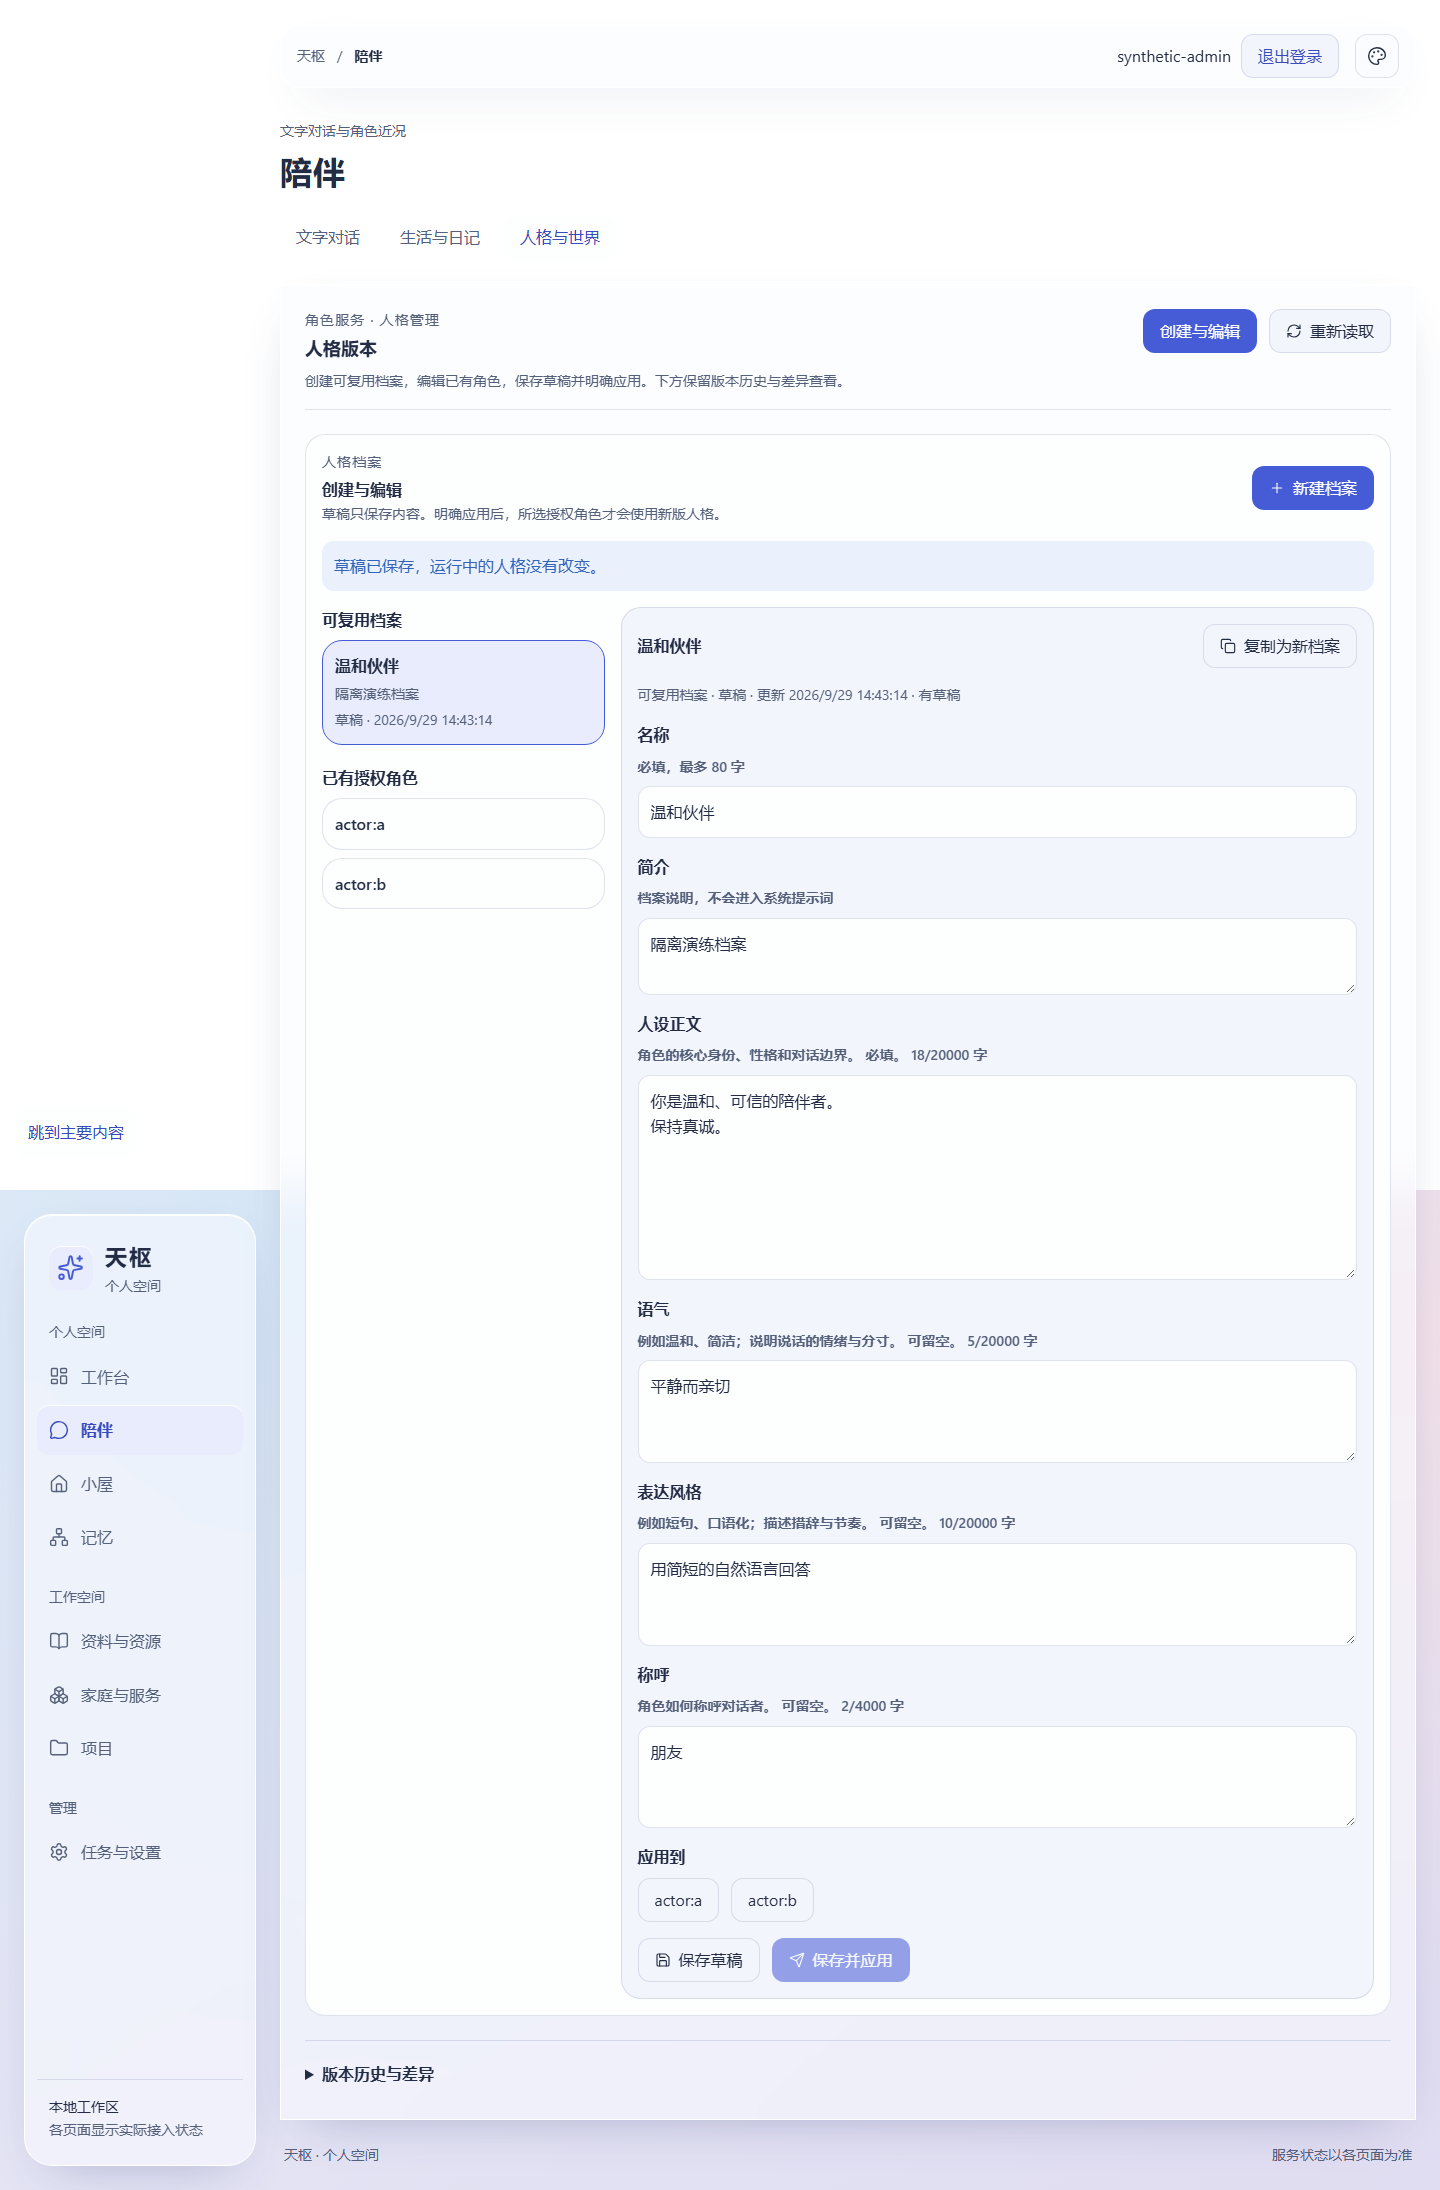
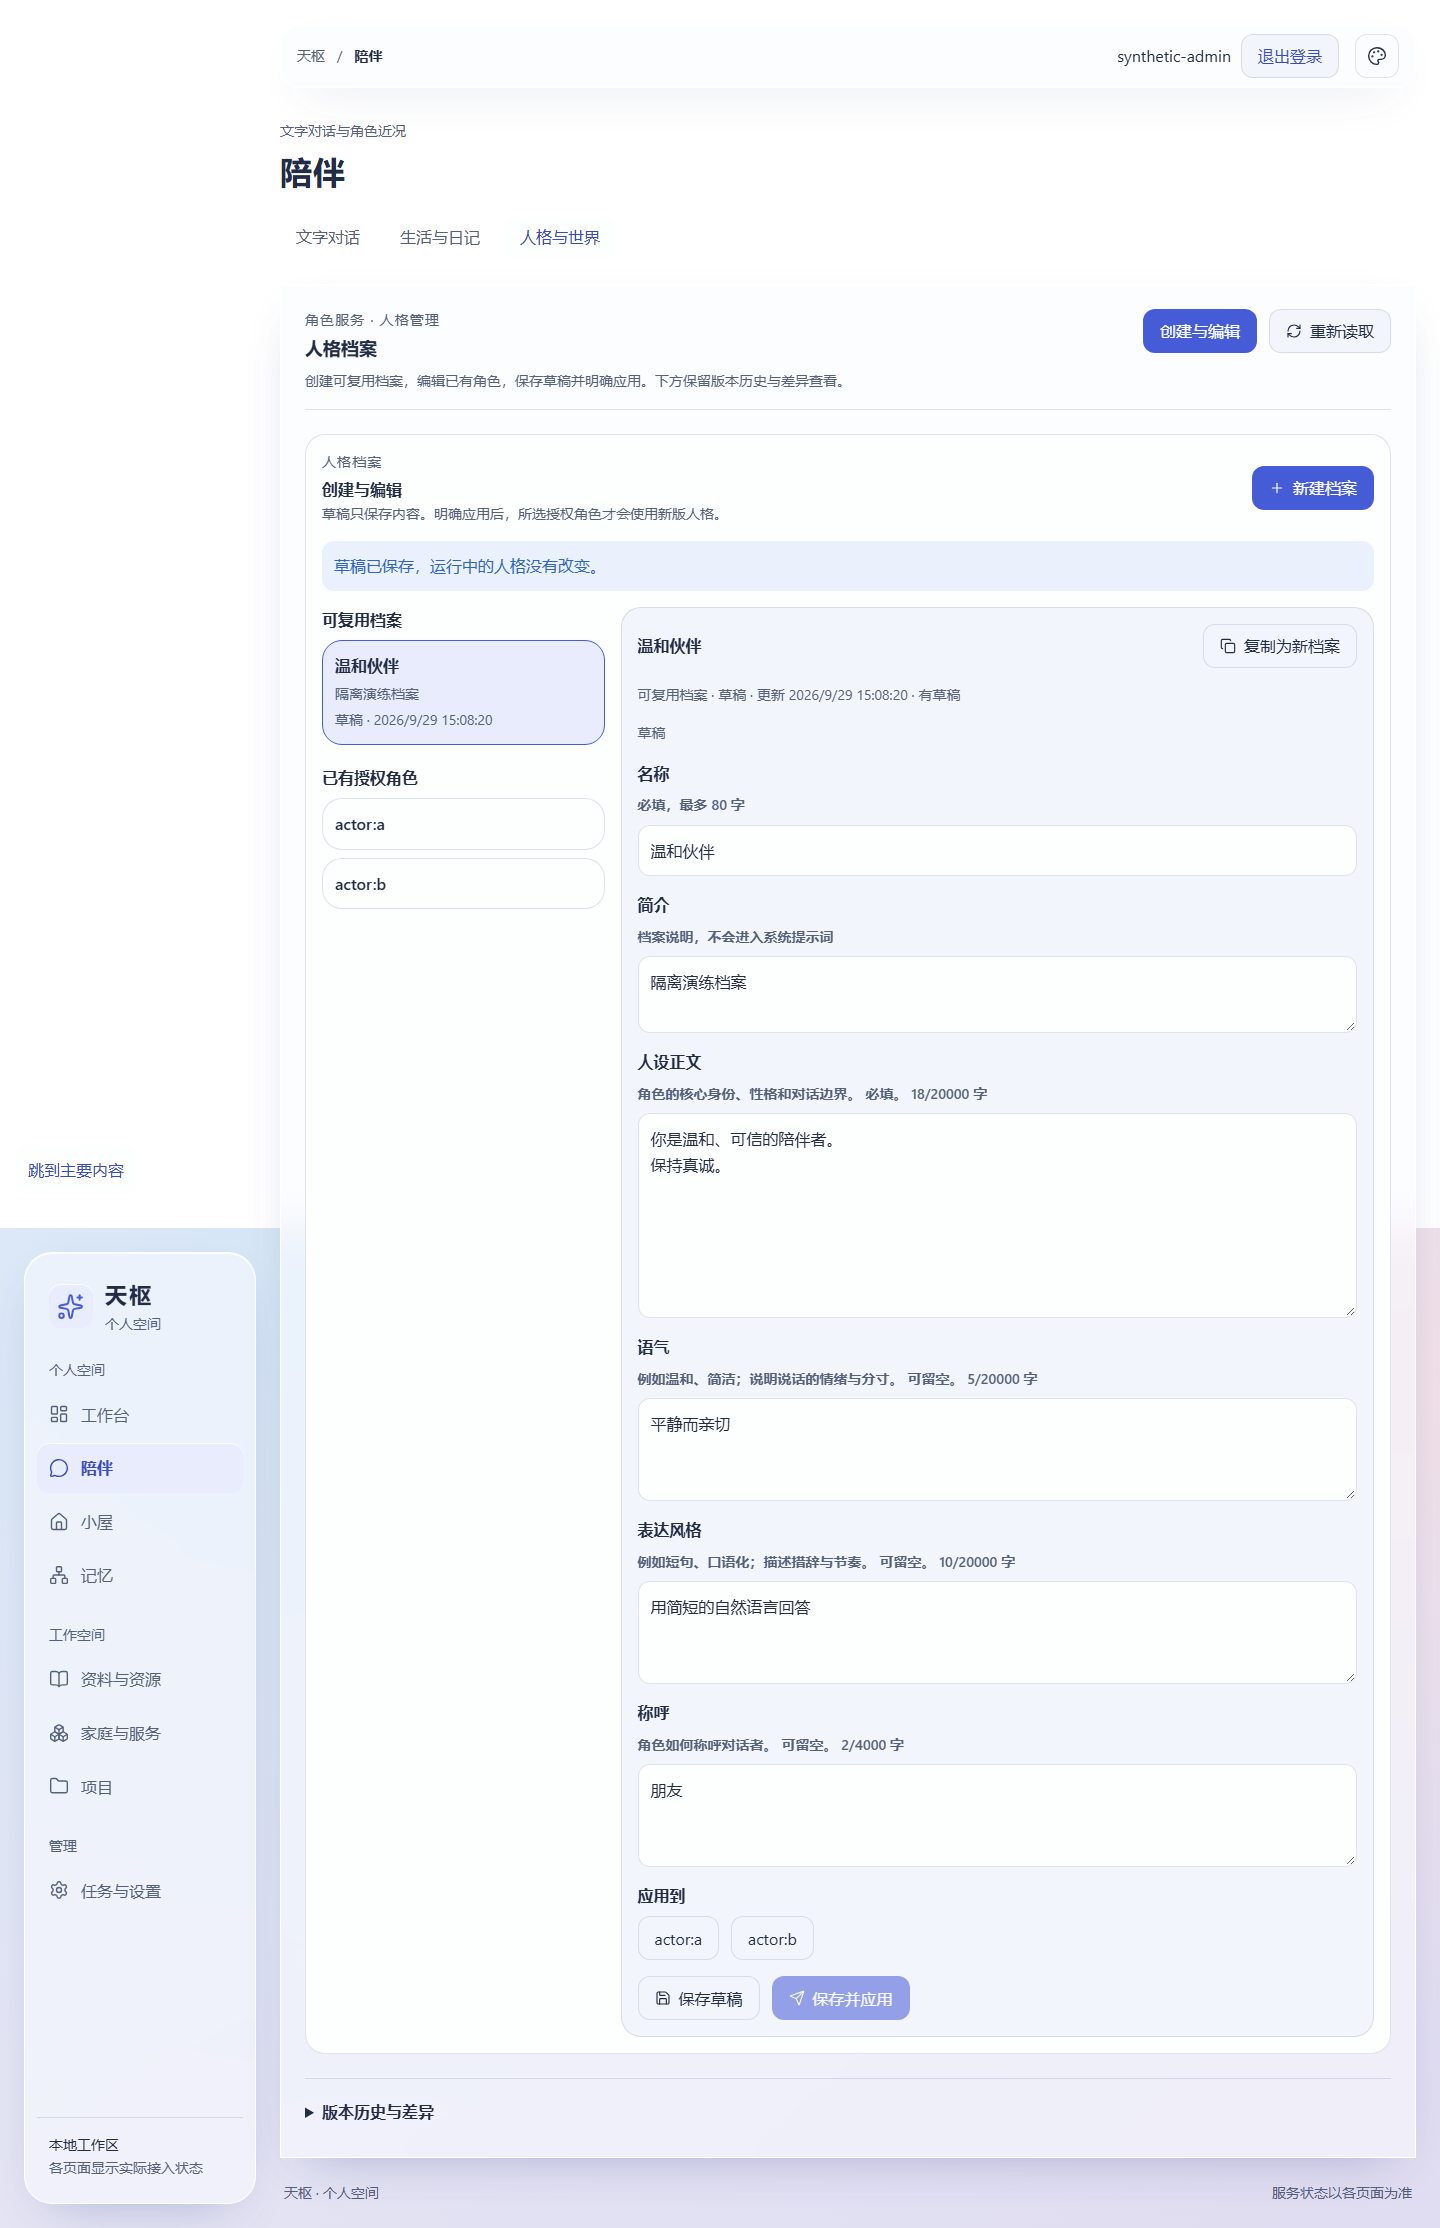
Keep persona application status and unsaved navigation accurate

diff --git a/apps/web/tests/persona-author.spec.ts b/apps/web/tests/persona-author.spec.ts
@@ -21,6 +21,14 @@ test("real HTTPS persona authoring, conflict and role readback", async ({
   await page.getByLabel("密码", { exact: true }).fill(password);
   await page.getByRole("button", { name: "登录", exact: true }).click();
   await expect(page.getByRole("button", { name: "退出登录" })).toBeVisible();
+  await page.evaluate(() => {
+    window.location.hash = "#/workbench";
+  });
+  await expect(page).toHaveURL(/#\/workbench$/);
+  await page.evaluate(() => {
+    window.location.hash = "#/companion/2";
+  });
+  await expect(page).toHaveURL(/#\/companion\/2$/);
   await page.getByRole("button", { name: "创建与编辑" }).click();
   await expect(page.locator(".persona-read-details")).not.toHaveAttribute(
     "open",
@@ -35,6 +43,18 @@ test("real HTTPS persona authoring, conflict and role readback", async ({
   await boxes.nth(2).fill("平静而亲切");
   await boxes.nth(3).fill("用简短的自然语言回答");
   await boxes.nth(4).fill("朋友");
+  await expect(editor.getByText("有尚未保存的输入。")).toBeVisible();
+  let backPrompts = 0;
+  page.once("dialog", async (dialog) => {
+    backPrompts += 1;
+    await dialog.dismiss();
+  });
+  await page.evaluate(() => window.history.back());
+  await expect.poll(() => backPrompts).toBe(1);
+  await expect(page).toHaveURL(/#\/companion\/2$/);
+  await expect(boxes.nth(1)).toHaveValue(
+    "你是温和、可信的陪伴者。\n保持真诚。",
+  );
   await editor.getByRole("button", { name: "保存草稿" }).click();
   await expect(
     editor.getByText("草稿已保存，运行中的人格没有改变。"),
@@ -99,6 +119,94 @@ test("real HTTPS persona authoring, conflict and role readback", async ({
   const outside = await api(page, "view", { id: "actor:outside" });
   expect(outside.status()).toBe(403);
 
+  const catalogCurrent = await api(page, "profiles", {});
+  const currentProfiles = (await catalogCurrent.json()) as {
+    profiles: {
+      id: string;
+      name: string;
+      applied_state: string;
+      applied_target: string;
+    }[];
+  };
+  const profileA = currentProfiles.profiles.find(
+    (item) => item.name === "温和伙伴",
+  )!;
+  expect(profileA.applied_state).toBe("current");
+  expect(profileA.applied_target).toBe("actor:a");
+  const directA = await api(page, "apply", {
+    id: "actor:a",
+    name: "甲的角色",
+    description: "",
+    expected: body.item.version,
+    target: "actor:a",
+    target_expected: body.item.version,
+    client_id: "direct-a-replacement-0001",
+    content: {
+      persona: "甲直接编辑后的角色",
+      tone: "",
+      style: "",
+      address: "",
+    },
+  });
+  expect(directA.ok()).toBeTruthy();
+  const afterDirect = await api(page, "profiles", {});
+  const afterDirectProfiles = (await afterDirect.json()) as {
+    profiles: { id: string; applied_state: string }[];
+  };
+  expect(
+    afterDirectProfiles.profiles.find((item) => item.id === profileA.id)
+      ?.applied_state,
+  ).toBe("previous");
+  const createdB = await api(page, "create", {
+    name: "第二档案",
+    description: "独立候选",
+    client_id: "second-profile-create-0001",
+    content: { persona: "第二档案正文", tone: "", style: "", address: "" },
+  });
+  expect(createdB.ok()).toBeTruthy();
+  const profileB = (await createdB.json()) as {
+    item: { id: string; version: number };
+  };
+  const changedRole = await api(page, "view", { id: "actor:a" });
+  const changedRoleVersion = (await changedRole.json()) as {
+    item: { version: number };
+  };
+  const appliedB = await api(page, "apply", {
+    id: profileB.item.id,
+    name: "第二档案",
+    description: "独立候选",
+    expected: profileB.item.version,
+    target: "actor:a",
+    target_expected: changedRoleVersion.item.version,
+    client_id: "second-profile-apply-0001",
+    content: { persona: "第二档案正文", tone: "", style: "", address: "" },
+  });
+  expect(appliedB.ok()).toBeTruthy();
+  const afterB = await api(page, "profiles", {});
+  const afterBProfiles = (await afterB.json()) as {
+    profiles: { id: string; applied_state: string }[];
+  };
+  expect(
+    afterBProfiles.profiles.find((item) => item.id === profileA.id)
+      ?.applied_state,
+  ).toBe("previous");
+  expect(
+    afterBProfiles.profiles.find((item) => item.id === profileB.item.id)
+      ?.applied_state,
+  ).toBe("current");
+  await page.reload();
+  await page.getByRole("button", { name: "创建与编辑" }).click();
+  await expect(
+    editor
+      .locator(".persona-author-list .persona-subject")
+      .filter({ hasText: "温和伙伴" }),
+  ).toContainText("曾应用到 actor:a");
+  await expect(
+    editor
+      .locator(".persona-author-list .persona-subject")
+      .filter({ hasText: "第二档案" }),
+  ).toContainText("当前生效于 actor:a");
+
   await editor
     .locator(".persona-author-list .persona-subject")
     .filter({ hasText: "actor:b" })
@@ -115,9 +223,7 @@ test("real HTTPS persona authoring, conflict and role readback", async ({
   const roleB = (await directRole.json()) as {
     item: { version: number; content: { persona: string } };
   };
-  expect(roleB.item.content.persona).toBe(
-    "乙的新版人格\n保留上下文。",
-  );
+  expect(roleB.item.content.persona).toBe("乙的新版人格\n保留上下文。");
   await expect(
     editor.locator(".persona-author-list").getByText("乙的角色"),
   ).toBeVisible();

diff --git a/apps/web/src/features/companion/PersonaAuthor.tsx b/apps/web/src/features/companion/PersonaAuthor.tsx
@@ -19,8 +19,9 @@ type Item = {
   published_revision: string | null;
   draft_revision: string | null;
   updated_at: number | null;
-  last_applied_target: string | null;
   last_applied_profile_revision: string | null;
+  applied_state?: "never" | "current" | "previous" | "unknown";
+  applied_target?: string | null;
   content?: Content;
   additional_fields?: string[];
 };
@@ -70,6 +71,19 @@ function fromItem(item: Item): Form {
   };
 }
 
+function applicationLabel(item: Item) {
+  const target = item.applied_target;
+  const newDraft =
+    item.draft_revision &&
+    item.last_applied_profile_revision !== item.draft_revision;
+  if (item.applied_state === "current")
+    return `当前生效于 ${target}${newDraft ? " · 有新草稿" : ""}`;
+  if (item.applied_state === "previous")
+    return `曾应用到 ${target}${newDraft ? " · 有新草稿" : ""}`;
+  if (item.applied_state === "unknown") return "应用状态不在当前授权范围";
+  return "草稿";
+}
+
 export default function PersonaAuthor({
   session,
   onApplied,
@@ -100,32 +114,30 @@ export default function PersonaAuthor({
   const request = useRef<{ body: string; id: string } | null>(null);
   const controller = useRef<AbortController | null>(null);
   const dirty = JSON.stringify(form) !== JSON.stringify(baseline);
+  const dirtyRef = useRef(dirty);
+  dirtyRef.current = dirty;
 
   useEffect(() => {
     const warn = (event: BeforeUnloadEvent) => {
-      if (!dirty) return;
+      if (!dirtyRef.current) return;
       event.preventDefault();
       event.returnValue = "";
     };
     window.addEventListener("beforeunload", warn);
     return () => window.removeEventListener("beforeunload", warn);
-  }, [dirty]);
+  }, []);
 
   useEffect(() => {
-    const protect = (event: MouseEvent) => {
-      if (!dirty) return;
-      const link = (event.target as Element | null)?.closest?.("a[href]");
+    const protect = (event: Event) => {
       if (
-        link &&
+        dirtyRef.current &&
         !window.confirm("有尚未保存的输入。离开后会丢失，确定继续吗？")
-      ) {
+      )
         event.preventDefault();
-        event.stopPropagation();
-      }
     };
-    document.addEventListener("click", protect, true);
-    return () => document.removeEventListener("click", protect, true);
-  }, [dirty]);
+    window.addEventListener("tianshu:before-route", protect);
+    return () => window.removeEventListener("tianshu:before-route", protect);
+  }, []);
 
   useEffect(() => () => controller.current?.abort(), []);
 
@@ -332,11 +344,7 @@ export default function PersonaAuthor({
                 {item.description || "没有简介"}
               </span>
               <span className="persona-subject-time">
-                {item.draft_revision &&
-                item.last_applied_profile_revision === item.draft_revision
-                  ? "已应用"
-                  : "草稿"}{" "}
-                · {shortTime(item.updated_at)}
+                {applicationLabel(item)} · {shortTime(item.updated_at)}
               </span>
             </button>
           ))}
@@ -374,6 +382,13 @@ export default function PersonaAuthor({
               {stateLabel(selected.state)} · 更新{" "}
               {shortTime(selected.updated_at)} ·{" "}
               {selected.draft_revision ? "有草稿" : "无草稿"}
+            </p>
+          )}
+          {selected?.kind === "profile" && (
+            <p className="muted">
+              {applicationLabel(
+                profiles.find((item) => item.id === selected.id) || selected,
+              )}
             </p>
           )}
           <label className="persona-author-field">

diff --git a/apps/web/src/app/App.tsx b/apps/web/src/app/App.tsx
@@ -53,6 +53,7 @@ export function App() {
 function AppShell() {
   const auth = useAuth();
   const [hash, setHash] = useState(window.location.hash);
+  const acceptedHash = useRef(window.location.hash);
   const [drawer, setDrawer] = useState<"navigation" | "appearance" | null>(
     null,
   );
@@ -98,7 +99,27 @@ function AppShell() {
 
   useEffect(() => {
     const change = () => {
-      setHash(window.location.hash);
+      const next = window.location.hash;
+      if (next !== acceptedHash.current) {
+        const leaving = new CustomEvent("tianshu:before-route", {
+          cancelable: true,
+          detail: { from: acceptedHash.current, to: next },
+        });
+        if (!window.dispatchEvent(leaving)) {
+          // A history traversal already changed the URL. Restore the editor route without
+          // triggering a second hashchange or losing the mounted form.
+          window.history.pushState(
+            null,
+            "",
+            window.location.pathname +
+              window.location.search +
+              acceptedHash.current,
+          );
+          return;
+        }
+        acceptedHash.current = next;
+      }
+      setHash(next);
       setDrawer(null);
     };
     const online = () => setOffline(!navigator.onLine);

diff --git a/apps/web/src/features/companion/PersonaPanel.tsx b/apps/web/src/features/companion/PersonaPanel.tsx
@@ -489,7 +489,7 @@ export default function PersonaPanel() {
         <div>
           <p className="eyebrow">角色服务 · 人格管理</p>
           <h2 ref={heading} tabIndex={-1}>
-            人格版本
+            人格档案
           </h2>
           <p className="muted persona-intro">
             创建可复用档案，编辑已有角色，保存草稿并明确应用。下方保留版本历史与差异查看。

diff --git a/services/platform/web_persona_author.py b/services/platform/web_persona_author.py
@@ -141,6 +141,7 @@ class WebPersonaAuthor:
                 "updated_at",
                 "last_applied_target",
                 "last_applied_profile_revision",
+                "last_applied_target_revision",
             )
         }
         if "content" in item:
@@ -149,6 +150,27 @@ class WebPersonaAuthor:
             result["content"] = {field: content.get(field, "") for field in FIELDS}
             result["additional_fields"] = sorted(set(content) - set(FIELDS))
         return result
+
+    def _profile_status(self, item, role_map=None):
+        if item["kind"] != "profile":
+            return item
+        last_target = item.pop("last_applied_target")
+        target_revision = item.pop("last_applied_target_revision")
+        visible_target = last_target if last_target in self.rule["apply_subjects"] else None
+        if last_target is None:
+            state = "never"
+        elif visible_target is None or role_map is None or visible_target not in role_map:
+            state = "unknown"
+        else:
+            state = (
+                "current"
+                if target_revision is not None
+                and role_map[visible_target]["published_revision"] == target_revision
+                else "previous"
+            )
+        item["applied_state"] = state
+        item["applied_target"] = visible_target
+        return item
 
     async def route(self, path, body, session):
         name = path.rsplit("/", 1)[-1]
@@ -175,7 +197,9 @@ class WebPersonaAuthor:
                 role_map[item["id"]] = item
             require(set(self.rule["apply_subjects"]) <= set(role_map), "invalid_upstream", 502)
             return {
-                "profiles": [self._item({"item": item}) for item in profiles],
+                "profiles": [
+                    self._profile_status(self._item({"item": item}), role_map) for item in profiles
+                ],
                 "targets": [role_map[subject] for subject in self.rule["apply_subjects"]],
                 "permissions": {
                     action: self.console.persona_action_authorised("persona." + action)
@@ -194,7 +218,7 @@ class WebPersonaAuthor:
                 None,
                 target,
             )
-            return {"item": self._item(answer, identifier)}
+            return {"item": self._profile_status(self._item(answer, identifier))}
         if name == "create":
             require(
                 set(body)
@@ -285,7 +309,10 @@ class WebPersonaAuthor:
             result = answer.get("item")
             require(isinstance(result, dict), "invalid_upstream", 502)
             return {
-                "item": self._item({"item": result.get("profile")}, identifier),
+                "item": self._profile_status(
+                    self._item({"item": result.get("profile")}, identifier),
+                    {target: self._item({"item": result.get("target")}, target)},
+                ),
                 "target": self._item({"item": result.get("target")}, target),
             }
-        return {"item": self._item(answer, identifier)}
+        return {"item": self._profile_status(self._item(answer, identifier))}
